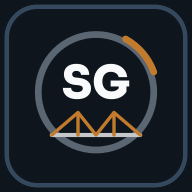
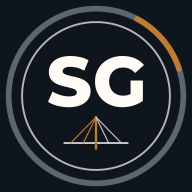
Adopt released SG V3 app identity

diff --git a/index.html b/index.html
@@ -2,10 +2,13 @@
 <html lang="en">
   <head>
     <meta charset="UTF-8" />
-    <link rel="icon" href="/brand/favicon.ico" sizes="any" />
     <link rel="icon" type="image/svg+xml" href="/brand/favicon.svg" />
+    <link rel="icon" type="image/png" sizes="48x48" href="/brand/favicon-48x48.png" />
     <link rel="icon" type="image/png" sizes="32x32" href="/brand/favicon-32x32.png" />
+    <link rel="icon" type="image/png" sizes="16x16" href="/brand/favicon-16x16.png" />
+    <link rel="shortcut icon" href="/brand/favicon.ico" />
     <link rel="apple-touch-icon" sizes="180x180" href="/brand/apple-touch-icon.png" />
+    <link rel="mask-icon" href="/brand/safari-pinned-tab.svg" color="#1E2A38" />
     <meta name="viewport" content="width=device-width, initial-scale=1.0, viewport-fit=cover" />
     <meta name="robots" content="noindex,nofollow,noarchive" />
     <meta

diff --git a/vite.config.ts b/vite.config.ts
@@ -28,10 +28,14 @@ export default defineConfig({
         'brand/favicon.ico',
         'brand/favicon.svg',
         'brand/favicon-16x16.png',
+        'brand/favicon-20x20.png',
+        'brand/favicon-24x24.png',
         'brand/favicon-32x32.png',
         'brand/favicon-48x48.png',
         'brand/favicon-96x96.png',
+        'brand/favicon-128x128.png',
         'brand/apple-touch-icon.png',
+        'brand/safari-pinned-tab.svg',
       ],
       manifest: {
         name: 'Energy Management as a Service (EMaaS) Pro — Sustainable Gaps',

diff --git a/docs/SOURCE-MAP.md b/docs/SOURCE-MAP.md
@@ -4,6 +4,8 @@ Status: `REVIEW / NOT RELEASED / NOT DEPLOYED`
 
 Controlled destination: `/Users/sustainablegaps/Projects/emaas-pro`
 
+Current SG brand authority: `/Volumes/SG-Clean/SG-OFFICE/Company and Brand/02 Brand Guidelines/01-Current-SG-Brand`
+
 Owner and release gate: Erik Herring; exact-file owner review, target-surface evidence, and a separate deployment decision remain required.
 
 Scope: current digital-brand implementation across the web shell, PWA, charts, one-line diagrams, PDF presentation, Capacitor source assets, and iOS implementation copies. Formulas, calculation data, engineering logic, connectivity, signing, distribution, and deployment remain outside this record.
@@ -20,7 +22,7 @@ Scope: current digital-brand implementation across the web shell, PWA, charts, o
[3 lines of base64/hex data omitted]
-| SG Micro Identity System V2 selected implementation files | Governed owner-review candidate | `14-Brand-Accent-System-2026/02-Favicons-App-Icons/V2-Micro-Identity-System-20260828/` | `SG-MICRO-IDENTITY-V2-CANDIDATE-001` | Exact source hashes recorded in `docs/BRAND-ASSET-MANIFEST-SHA256.txt` | `OWNER_REVIEW`; controlled SG design review only; browser/device/channel release held | Selected exact favicon, Apple touch, Android, maskable, and standard-app source files copied individually; 1024 px native icon and launch-screen implementation renders remain review outputs | `public/brand/`; `assets/`; `ios/App/App/Assets.xcassets/`; `index.html`; `vite.config.ts` | EMaaS Pro release-candidate review, 2026-09-11 |
[3 lines of base64/hex data omitted]
 
@@ -29,7 +31,7 @@ Scope: current digital-brand implementation across the web shell, PWA, charts, o
 - Active application colors now use the controlled palette: Conductive Copper `#C27A2C`, Copper Hover `#D88A34`, Executive Blue `#1E2A38`, Blackout `#0E151C`, Motion Ink `#141D26`, Dark Raised `#1C2732`, Source Slate `#34495E`, Pewter `#5B6673`, Silver `#C5C6C7`, Bone `#E9E4D6`, Brand White `#F9FAFB`, Proof Blue `#CCD2E9`, and Skyway Light `#ABE1FA`.
 - Retired gold naming and legacy gold tokens were removed from active application source, diagrams, charts, and PDF presentation styles.
 - `npm run audit:brand` now checks controlled web/native asset and font checksums, scans web/PWA/Capacitor/iOS text sources, rejects off-palette hexadecimal values, and rejects RGB/HSL bypasses and retired gold terminology.
-- The controlled-brand-tree release gate was run on 2026-09-11 and remains blocked by retired tokens in `02-Source-Masters/sg-bridge-mark-master.svg` and `02-Source-Masters/sg-bridge-mark-web.svg`. Those governed source-master files were not altered from this application repository. Brand-steward resolution and a passing rerun remain required before channel release.
+- The clean-tree brand release gate was rerun on 2026-09-11 and remains blocked by checksum drift between the logo-family ledger binding and the matching active/brand-kit manifest copies. The broader integrity gate also reports three unresolved rights records, 12 badge/coin SVGs with live type, and one missing hosted email-signature image. Those governed findings were not altered from this application repository. Brand-steward resolution and passing reruns remain required before EMaaS release.
 
 ## Release Boundary
 
@@ -39,6 +41,6 @@ This source map documents a local implementation candidate only. A passing build
 
 The exact 2026-09-11 reconciliation passed 156 unit/regression tests, lint, the production build and artifact audit, desktop/mobile browser E2E, browser PDF download with the controlled fonts, PWA manifest/icon readback, Capacitor iOS sync, post-sync brand audit and checksum verification, compiled-bundle retired-token scan, and an unsigned iOS Simulator build. Detailed commands and boundaries are in `docs/QA.md`. Dated material under `docs/release-candidates/` remains historical evidence only and does not prove this tree.
 
-Remaining release holds: owner exact-file review; public font-license/copyright accompaniment; assistive-technology/device review beyond the automated focus checks; deployment decision; and cache-busted live verification after any separately authorized deployment.
+Remaining release holds: EMaaS destination-specific exact-file and device review; public font-license/copyright accompaniment; assistive-technology review beyond the automated focus checks; central brand-gate reconciliation; deployment decision; and cache-busted live verification after any separately authorized deployment.
 
-Current 2026-09-11 local verification: passed for Node 22, PWA manifest and assets, browser PDF generation, Capacitor sync, desktop/mobile browser checks, and unsigned iOS Simulator compilation. The separate controlled-brand-tree and micro-identity owner-release gates remain blocked as documented above; signed-device, assistive-technology, deployment, and live-surface verification remain future release gates.
+Current 2026-09-11 local verification: passed for Node 22, PWA manifest and assets, browser PDF generation, Capacitor sync, desktop/mobile browser checks, and unsigned iOS Simulator compilation before the V3 reconciliation. V3-specific rerun evidence will be recorded in `docs/QA.md`. The separate clean-tree brand gate remains blocked as documented above; signed-device, assistive-technology, deployment, and live-surface verification remain future release gates.

diff --git a/docs/QA.md b/docs/QA.md
@@ -53,8 +53,18 @@ The current correction addresses these items in source.
 - `shasum -a 256 -c docs/BRAND-ASSET-MANIFEST-SHA256.txt`: passed for every registered web, PWA, font, Capacitor, and iOS asset.
 - PWA manifest readback: passed; all declared icons exist in the built artifact and the current name/theme values are present.
 - Compiled web and copied iOS bundle scan: passed; no retired SG color value was found.
-- Unsigned iOS Simulator compilation with Xcode: passed (`** BUILD SUCCEEDED **`). Derived data is isolated at `/Users/sustainablegaps/SG-OFFICE/tmp/agent-work/emaas-brand-qa-20260911/DerivedData`.
+- Unsigned iOS Simulator compilation with Xcode: passed (`** BUILD SUCCEEDED **`). Its isolated DerivedData was removed from the controlled disposable scratch lane after verification.
+
+## Released V3 artwork alignment — 2026-09-11
+
+- The complete released V3 monogram family passed its authoritative 55-file checksum manifest before promotion into EMaaS Pro.
+- Browser, PWA, maskable, Safari pinned-tab, Capacitor, iOS app-icon, and iOS launch-screen assets are registered in the local checksum gate.
+- The 1024 px app icon and 2732 px light and dark launch screens were visually inspected for centering, clipping, contrast, and absence of obsolete artwork.
+- `npm test`, `npm run lint`, `npm run build`, and `npm run test:e2e` passed after the V3 replacement. The existing calculation suite remains at 25 files and 156 passing tests.
+- The built PWA contains every declared manifest icon and the complete browser icon set, including the 20, 24, 128, and monochrome Safari variants.
+- `npx cap sync ios`, the post-sync brand audit, and the registered-asset checksum verification passed.
+- A fresh unsigned iOS Simulator compilation passed (`** BUILD SUCCEEDED **`) with DerivedData kept in the controlled disposable scratch lane and removed after verification.
 
 The four PDF component smoke tests use React PDF's built-in Helvetica only inside the Node test environment; browser E2E performs the actual PDF download with Sora and Source Sans 3. This keeps unit tests filesystem-independent while preserving a real target-surface font check.
 
-Remaining release work is deliberately separate: exact-file owner review of the micro-identity candidate, brand-steward resolution of the two blocked central source masters, signed-device/App Store review, assistive-technology review, deployment authorization, and cache-busted live verification.
+Remaining release work is deliberately separate: resolution of the central logo-manifest ledger drift and broader brand-integrity findings, signed physical iPhone/iPad icon and launch-screen review, assistive-technology review, deployment authorization, and cache-busted live verification.

diff --git a/docs/HANDOFF.md b/docs/HANDOFF.md
@@ -19,12 +19,12 @@ Independent estimator and regression reviews informed the implementation. The ca
 ## Brand state
 
 - The header uses the exact registered horizontal reversed-dark SG logo.
-- Browser/PWA implementation copies use the selected files from the governed SG Micro Identity System V2 candidate.
-- Native icon and launch-screen files use the same governed candidate geometry and current palette.
+- Browser/PWA implementation copies use exact files from the released SG Favicon and App Icon Family V3 (`SG-FAVICON-FAMILY-001`).
+- Native icon and launch-screen files are 1024 px and 2732 px implementation renders derived from the exact outlined V3 app-icon vector and current palette.
 - Sora and Source Sans 3 controlled binaries are used for web and PDF presentation roles.
 - The build blocks missing or changed controlled implementation assets, off-palette color literals, RGB/HSL bypasses, and retired gold terminology.
 
-The micro-identity family remains an owner-review candidate until its small-size and device proofs are accepted. The central SG brand release gate also has unresolved source-master findings outside this repository. Both gates remain separate from this local correction.
+The V3 family is released for the Sustainable Gaps website and allowed for PWA and app-store icon use, but EMaaS remains a separate destination. The central SG brand release gate is currently blocked by logo-manifest ledger drift, and the broader SG brand integrity gate has unresolved rights, live-type badge, and hosted-signature findings outside this repository. Those central controls and EMaaS device proofs remain separate from this local implementation.
 
 ## Release boundary
 
@@ -33,7 +33,7 @@ No current commit has been pushed, merged, deployed, submitted to App Store Conn
 Before any release:
 
 1. confirm the exact commit and target;
-2. obtain a passing central SG brand gate and exact micro-identity owner decision;
+2. obtain a passing central SG brand gate and confirm the exact V3 files for the EMaaS destination;
 3. run the Node 22 gates from a clean checkout;
 4. verify the generated PWA manifest and brand assets in `dist/`;
 5. sync and build iOS, then verify iPhone and iPad target surfaces;

diff --git a/README.md b/README.md
@@ -15,7 +15,7 @@ All results are planning estimates. Equipment selection, electrical design, proc
 
 The SG brand source of truth is outside this repository at:
 
-`/Users/sustainablegaps/SG-OFFICE/Brand Guidelines/01-Current-SG-Brand`
+`/Volumes/SG-Clean/SG-OFFICE/Company and Brand/02 Brand Guidelines/01-Current-SG-Brand`
 
 This repository contains only implementation copies and its source-use record. It is never the identity master.
 
